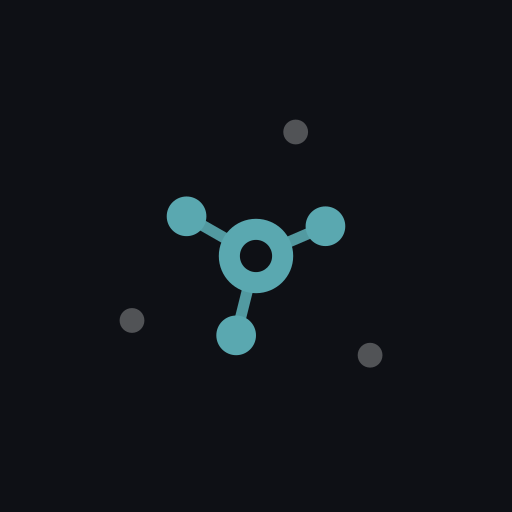
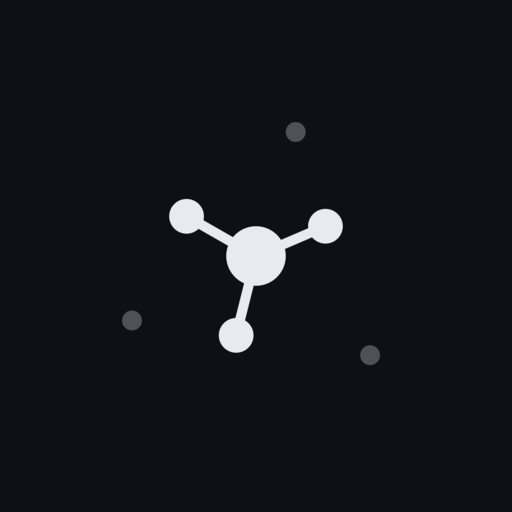
feat: one ink for the mark, and a mark that can see the theme
The logo carried two colours and a hole punched in the query node filled
with the elevated-surface background — which meant it only composed on the
one ground it was drawn against. It is now `currentColor` throughout, with
hierarchy left to size and opacity.

The in-app copy never followed the theme it claimed to follow. It was
`<img src="/assets/logo.svg">`, and an <img> is its own document: it sees
neither `--color-accent` nor the `data-theme` toggle, so every render was
the hardcoded fallback blue. The mark moves into `_mark.html`, inlined in
the two templates that show it, where it inherits the text colour beside
it and follows the toggle rather than only the system scheme.

The standalone files pick their own ink from `prefers-color-scheme`, since
nothing cascades into them. `icon.svg` keeps one fixed pair — a launcher
rasterizes it outside any scheme — and its PNGs are regenerated.

Claude-Session: https://claude.ai/code/session_019CMkR5kka9AnV8pdT9N3c3

diff --git a/assets/css/30-components.css b/assets/css/30-components.css
@@ -145,15 +145,19 @@ table.grid tr:hover td { background: var(--color-bg-hover); }
 .htmx-request .spinner, .htmx-request.spinner { visibility: visible; }
 
 /* ── Brand ───────────────────────────────────────────────────────────────── */
-/* The logo inherits the theme: its accent comes from --color-accent and its
-   faint nodes from currentColor, so it recolours with the rest of the UI. */
+/* The mark is one colour and takes it from the text beside it, so it follows
+   the theme -- including a `data-theme` override, which an <img> could not
+   see. Sizing is here rather than on the element because it is included as a
+   partial and every caller wants a different size. */
 nav.top a.brand {
-  display: inline-flex; align-items: center; gap: 0.4rem;
+  display: inline-flex; align-items: center; gap: 0.45rem;
   font-weight: 600; color: var(--color-fg-primary);
   padding-left: 0; margin-right: 0.5rem;
 }
 nav.top a.brand:hover { background: transparent; }
-nav.top a.brand img { display: block; }
+.mark { display: block; flex: none; color: inherit; }
+nav.top a.brand .mark { width: 22px; height: 22px; }
+.brand-lockup .mark { width: 40px; height: 40px; }
 
 .brand-lockup { display: flex; align-items: center; gap: 0.55rem; margin-bottom: 0.25rem; }
 .brand-name { font-size: var(--text-xl); font-weight: 600; letter-spacing: -0.02em; }

diff --git a/src/web/templates/_mark.html b/src/web/templates/_mark.html
@@ -1,12 +1,9 @@
-<svg xmlns="http://www.w3.org/2000/svg" viewBox="0 0 236 64" width="236" height="64"
-     role="img" aria-label="engram">
-  <title>engram</title>
-  <!-- The mark of logo.svg, set beside the name. Same one colour throughout. -->
-  <style>
-    :root { color: #1c1e24 }
-    @media (prefers-color-scheme: dark) { :root { color: #e8eaf0 } }
-  </style>
-
+{# The engram mark, inlined rather than <img src="/assets/logo.svg"> so it
+   inherits the page's colour: an <img> is its own document and sees neither
+   `currentColor` nor the theme toggle, so as an image it could only ever show
+   one fixed ink. Same geometry as assets/logo.svg — edit both. Decorative;
+   the link around it carries the label. Sized by CSS on the parent. #}
+<svg class="mark" viewBox="0 0 64 64" aria-hidden="true" focusable="false">
   <g fill="none" stroke="currentColor" stroke-width="2" stroke-linecap="round">
     <line x1="32" y1="32" x2="18" y2="24"/>
     <line x1="32" y1="32" x2="46" y2="26"/>
@@ -23,9 +20,4 @@
     <circle cx="40" cy="7"  r="2"/>
     <circle cx="7"  cy="45" r="2"/>
   </g>
-
-  <text x="74" y="42"
-        font-family="Inter, ui-sans-serif, system-ui, sans-serif"
-        font-size="30" font-weight="500" letter-spacing="-0.4"
-        fill="currentColor">engram</text>
 </svg>

diff --git a/src/web/templates/login.html b/src/web/templates/login.html
@@ -9,7 +9,7 @@
 {% block content %}
 <div class="card" style="max-width:22rem;margin:6rem auto">
   <div class="brand-lockup">
-    <img src="/assets/logo.svg" alt="" width="40" height="40">
+    {% include "_mark.html" %}
     <span class="brand-name">engram</span>
   </div>
   <p class="muted brand-tag">A trace of everything worth keeping.</p>

diff --git a/src/web/templates/layout.html b/src/web/templates/layout.html
@@ -49,7 +49,7 @@
   <header class="topbar">
     <nav class="top">
       <a href="/ui" class="brand" aria-label="engram">
-        <img src="/assets/logo.svg" alt="" width="22" height="22">
+        {% include "_mark.html" %}
         <span>engram</span>
       </a>
       {# Capture, Search and Ask are gone from here. They are not places any
